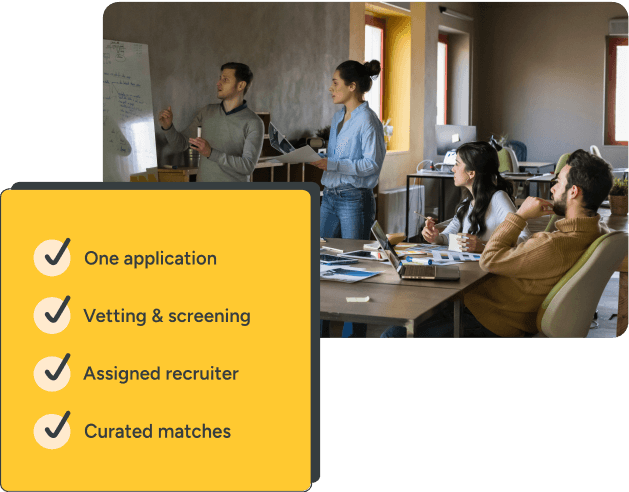
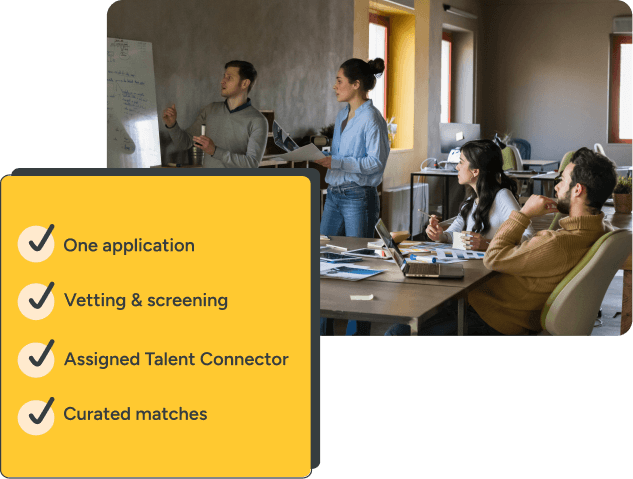
CAPP-780: Landing page "benefits" image: update with latest with new content, CAPP-784: Privacy FAQ link from org application doesn't work (#165)

Changed region(s): [[0.0, 0.0, 1.0, 1.0], [0.0302, 0.4676, 0.4531, 0.9353], [0.2114, 0.0877, 0.2417, 0.1461]]

diff --git a/src/modules/sections/home/aboutSection/AboutSection.tsx b/src/modules/sections/home/aboutSection/AboutSection.tsx
@@ -115,13 +115,13 @@ const AboutSection: React.FC<IAboutSection> = () => {
           {/* Mobile Benefit Hero */}
           <img
             src="/images/BenefitHero_sm.png"
-            alt="Benefits Image"
+            alt="Benefits Image: One application, Vetting & screening, Assigned talent connector, Curated matches"
             className="relative -left-[3px] m-auto w-[101%] max-w-[315px] md:hidden"
           />
           {/* Tablet Benefit Hero */}
           <img
             src="/images/BenefitHero_lg.png"
-            alt="Benefits Image"
+            alt="Benefits Image: One application, Vetting & screening, Assigned talent connector, Curated matches"
             className="m-auto hidden max-w-[610px] md:block lg:mb-24 lg:max-w-[928px]"
           />
         </div>

diff --git a/src/modules/components/modal/Modal/TableModal/TableModal.tsx b/src/modules/components/modal/Modal/TableModal/TableModal.tsx
@@ -54,7 +54,7 @@ const TableModal: React.FC<ITableModal> = ({
                 </div>
                 <ContentTable className={'w-full'} tableData={tableData} />
                 {extras}
-                <div className="fixed bottom-4 left-0 right-8 hidden md:block lg:bottom-6">
+                <div className="fixed bottom-4 right-8 hidden md:block lg:bottom-6">
                   <Button
                     className="float-right mt-8 h-[40px] px-12 text-component-large font-normal"
                     label="Close"
